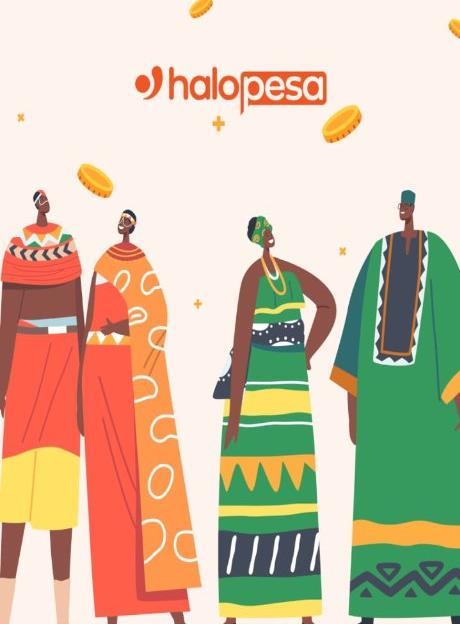
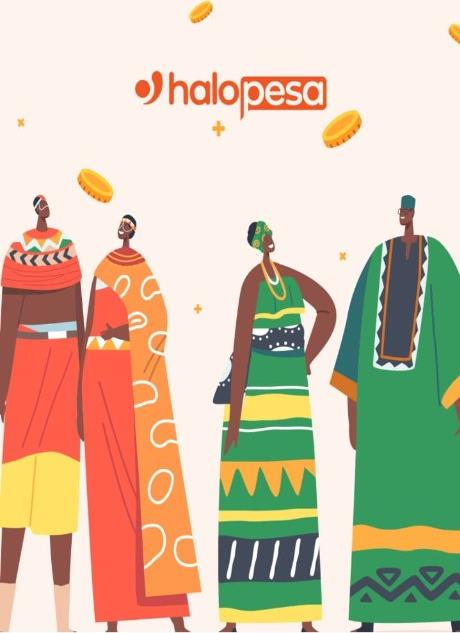
Fix character cropping with object-contain for flexible rendering across all screen sizes

diff --git a/src/components/OnboardingHero.jsx b/src/components/OnboardingHero.jsx
@@ -5,18 +5,18 @@ export function OnboardingHero({ lang, setLang, t, onGetStarted }) {
   const isEn = lang === 'en';
 
   return (
-    <div className="w-full h-full max-h-[100dvh] bg-[#FEF3EF] flex flex-col justify-between overflow-hidden select-none">
-      {/* Top Section: Anchored at the top, perfectly matching reference Image 2 */}
-      <div className="flex-1 min-h-0 w-full flex items-start justify-center bg-[#FEF3EF] overflow-hidden">
+    <div className="w-full min-h-screen sm:h-screen sm:max-h-[100dvh] bg-[#FEF3EF] flex flex-col justify-between select-none overflow-y-auto sm:overflow-hidden">
+      {/* Top Section: Flexible characters illustration, never cut out on any screen size */}
+      <div className="flex-1 min-h-0 w-full flex items-end justify-center bg-[#FEF3EF] overflow-hidden px-2 pt-1 pb-0">
         <img
           src="/hero-illustration.jpg"
           alt="HaloPesa"
-          className="w-full h-full max-w-[460px] object-cover sm:object-contain object-top pointer-events-none select-none block"
+          className="w-full max-w-[460px] h-auto max-h-[58vh] sm:max-h-[62vh] object-contain pointer-events-none select-none block mx-auto"
         />
       </div>
 
-      {/* Bottom Section: White Card anchored cleanly at bottom */}
-      <div className="w-full shrink-0 bg-white px-5 sm:px-6 pt-3.5 pb-4 sm:pb-6 flex flex-col gap-2.5 sm:gap-3.5 shadow-[0_-4px_20px_rgba(0,0,0,0.04)] z-10">
+      {/* Bottom Section: Always complete and fully visible */}
+      <div className="w-full shrink-0 bg-white px-5 sm:px-6 pt-4 pb-5 sm:pb-6 flex flex-col gap-2.5 sm:gap-3.5 shadow-[0_-4px_20px_rgba(0,0,0,0.04)] z-10">
         {/* Title & Subtitle */}
         <div className="space-y-1 text-left">
           <h1 className="text-[17px] sm:text-[20px] font-bold text-stone-900 leading-tight tracking-tight">

diff --git a/src/App.jsx b/src/App.jsx
@@ -101,10 +101,10 @@ export default function App() {
   };
 
   return (
-    <div className="h-screen h-[100dvh] max-h-[100dvh] w-full bg-[#FEF3EF] flex justify-center overflow-hidden">
-      <div className="w-full max-w-[460px] h-full max-h-[100dvh] bg-white sm:shadow-2xl flex flex-col justify-between relative overflow-hidden">
+    <div className="min-h-screen sm:h-screen sm:max-h-[100dvh] w-full bg-[#FEF3EF] flex justify-center overflow-y-auto sm:overflow-hidden">
+      <div className="w-full max-w-[460px] min-h-screen sm:h-full sm:max-h-[100dvh] bg-white sm:shadow-2xl flex flex-col justify-between relative overflow-hidden">
         {!hasStarted ? (
-          /* Exact Match Onboarding Screen - Fits 100% in viewport without scrolling */
+          /* Exact Match Onboarding Screen - Flexible on any screen size */
           <OnboardingHero
             lang={lang}
             setLang={setLang}
